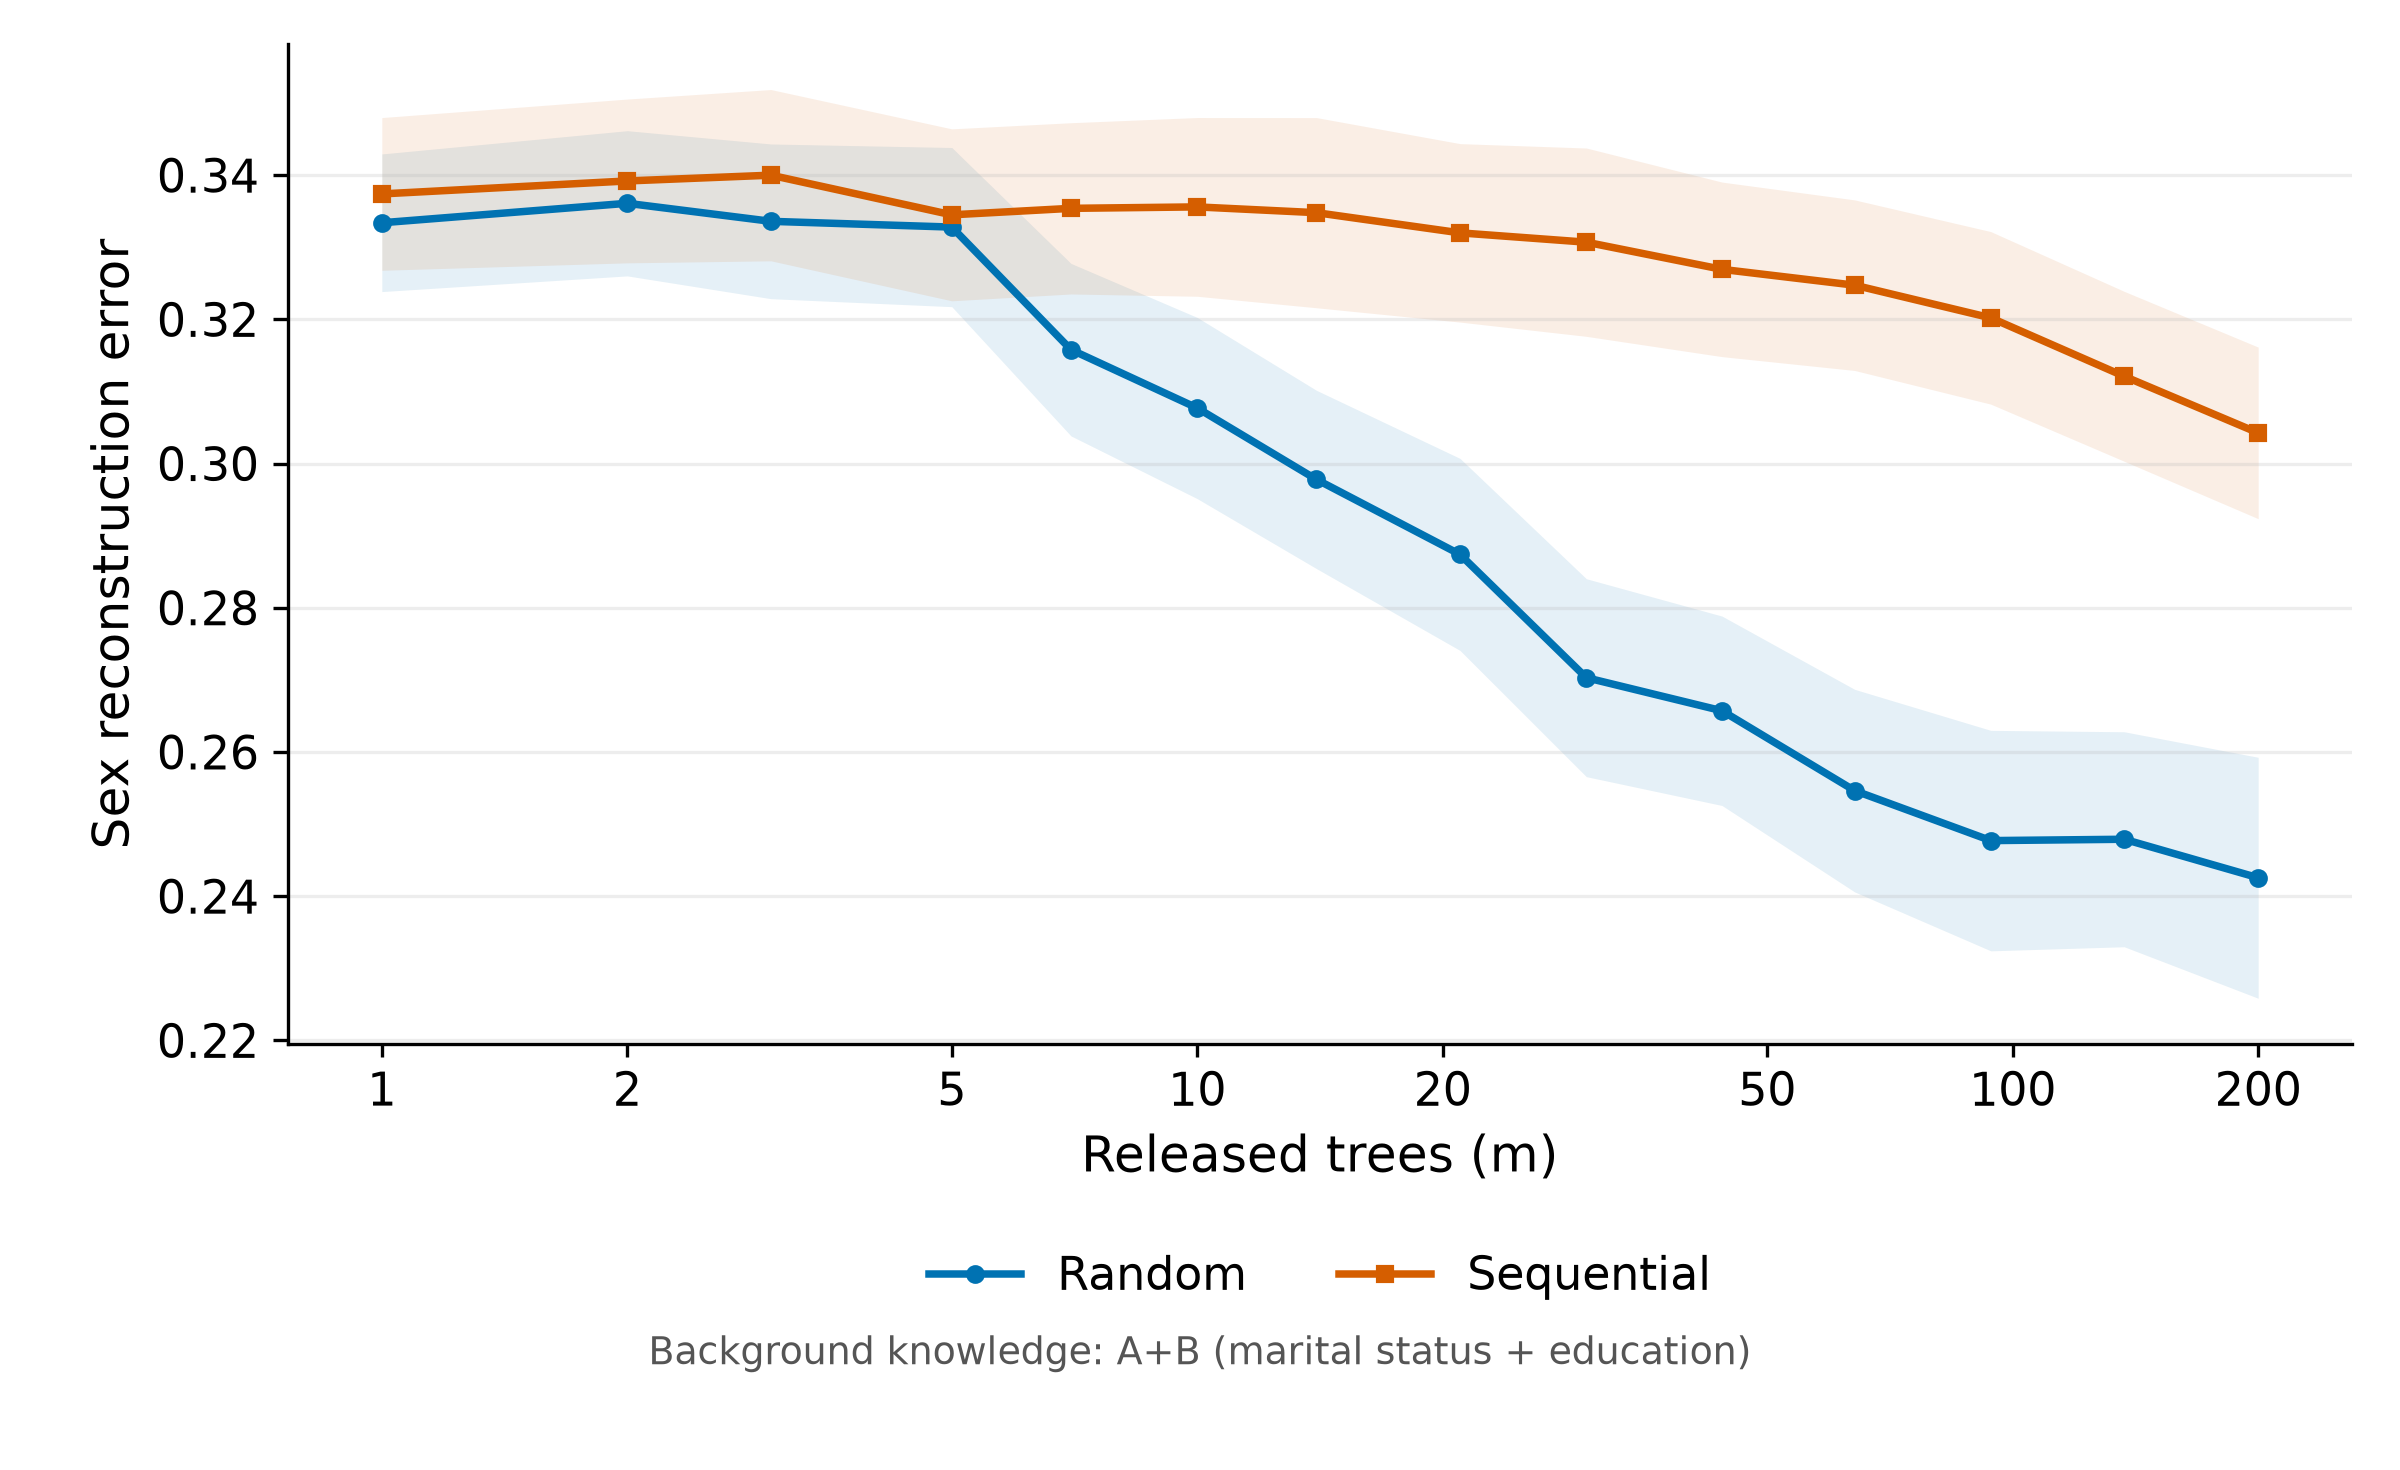
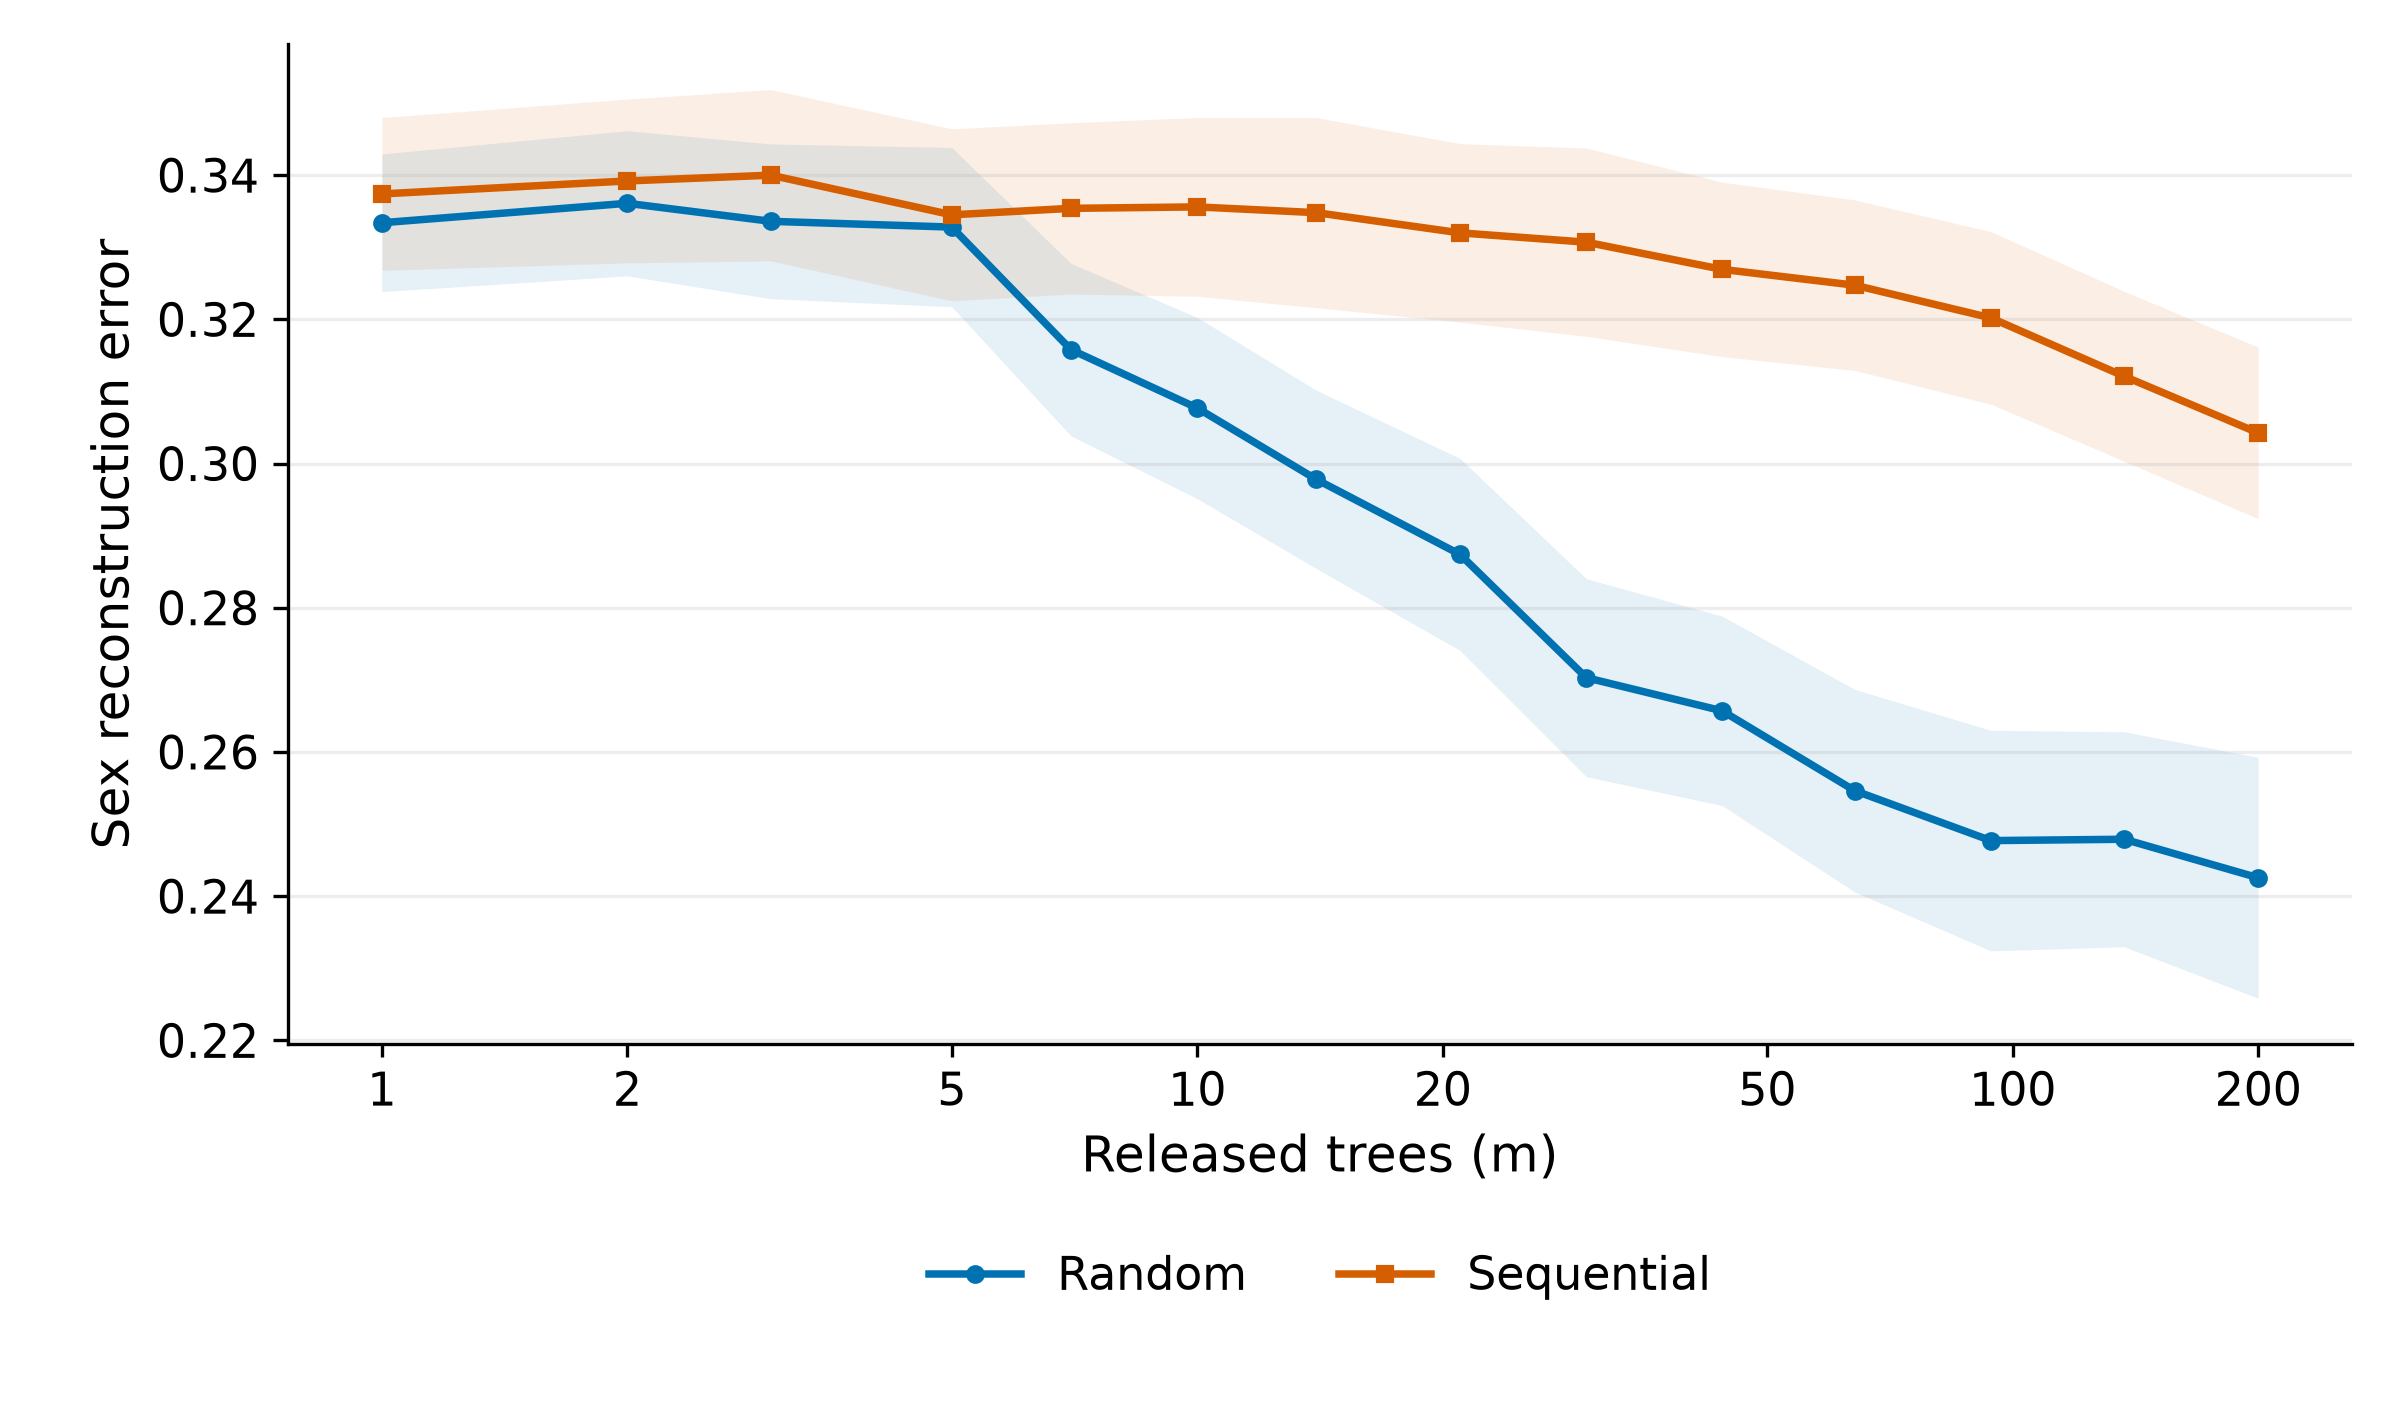
Selection figure without the background-knowledge note
The note under the random/sequential comparison is dropped; the figure
now uses the same height as the other attack figures, so no empty band
is left where the note was.

diff --git a/experiments/plotting/attack_figures.py b/experiments/plotting/attack_figures.py
@@ -349,10 +349,7 @@ def render(args, output_dir: Path, data_dir: Path) -> None:
                 styles,
                 None,
                 "Predictive accuracy on Y",
-                {
-                    "uncertainty": True,
-                    "background_label": "Background knowledge: A+B (marital status + education)",
-                },
+                {"uncertainty": True, "height": 4.7},
             )
         )
         data_path = data_dir / f"{stem.name}.csv"
